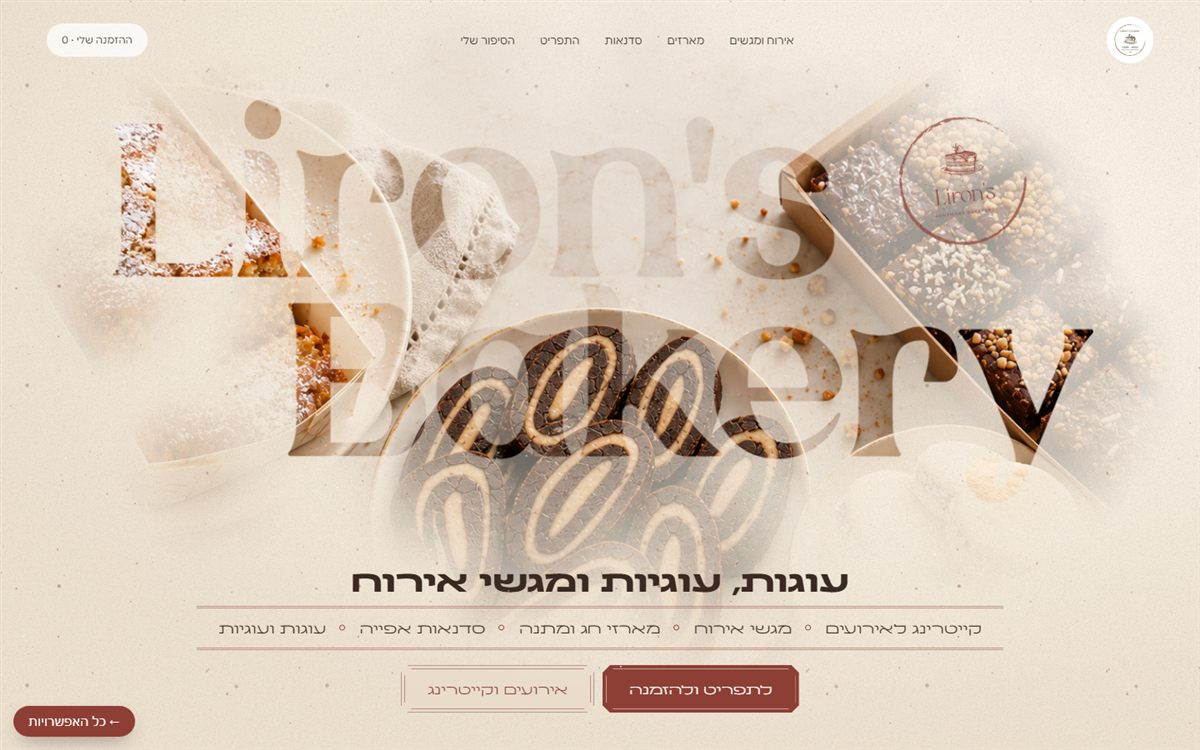
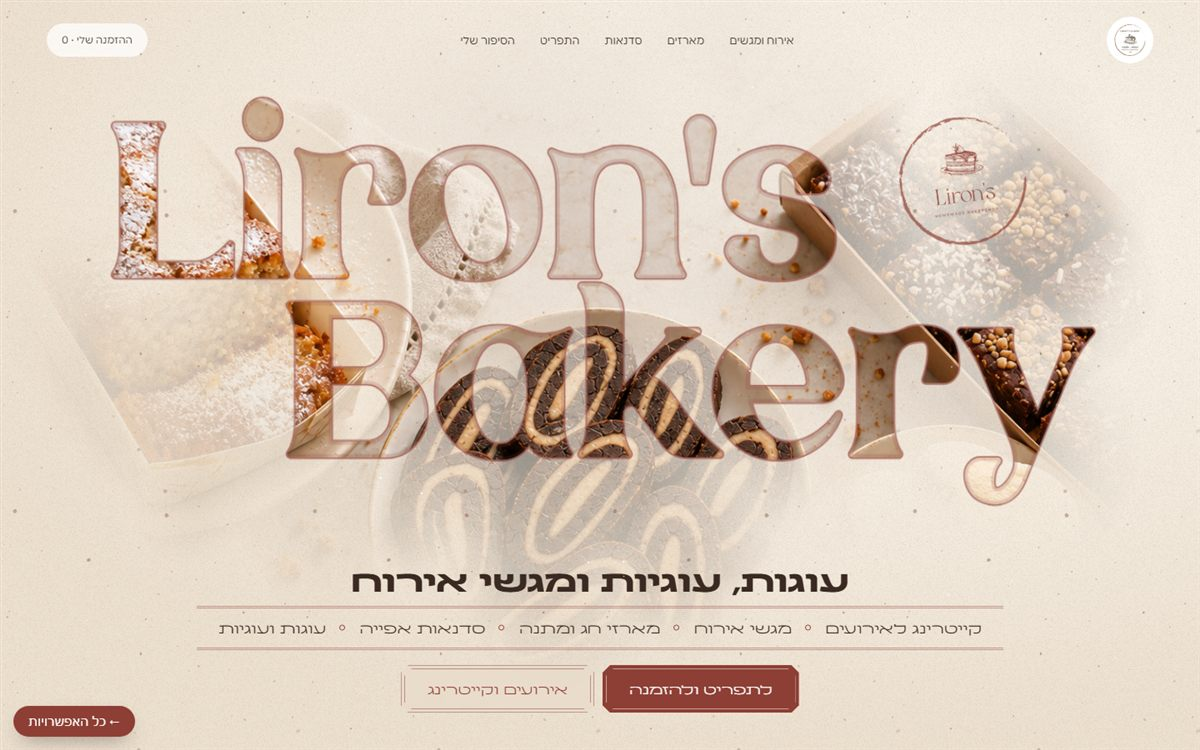
לפי המשוב של לירון: שם בולט יותר, בלי כרטיסי שירותים בגלילה

Changed region(s): [[0.0617, 0.1227, 0.9558, 0.7667], [0.5858, 0.6747, 0.6475, 0.7973], [0.2775, 0.4907, 0.3083, 0.5213]]

diff --git a/h3.html b/h3.html
@@ -63,11 +63,12 @@ a{color:inherit;text-decoration:none}
 .mini{font-size:12.5px;letter-spacing:.14em;text-transform:uppercase;color:var(--muted);line-height:1.7}
 
 /* ---------- הפתיחה ---------- */
-.x3{position:relative;height:470vh;max-width:1440px;margin:0 auto}
+.x3{position:relative;height:250vh;max-width:1440px;margin:0 auto}
 .pin{position:sticky;top:0;height:100vh;min-height:640px;overflow:hidden;background:#EFE6DA}
 .photo{position:absolute;inset:0;background:center/cover no-repeat;will-change:transform}
 .paper{position:absolute;inset:0;z-index:2;background:var(--paper),radial-gradient(80% 70% at 70% 30%,#FBF6EE 0%,#F3EADD 60%,#ECE0CF 100%);background-size:360px 360px,auto;
   -webkit-mask-size:100% 100%;mask-size:100% 100%;-webkit-mask-repeat:no-repeat;mask-repeat:no-repeat;will-change:transform,opacity}
+.outline{position:absolute;inset:0;z-index:2;width:100%;height:100%;pointer-events:none;will-change:transform,opacity}
 .cover{position:absolute;inset:0;z-index:3;background:var(--paper),radial-gradient(80% 70% at 70% 30%,#FBF6EE 0%,#F3EADD 60%,#ECE0CF 100%);background-size:360px 360px,auto;
   --w:-20%;-webkit-mask:linear-gradient(90deg,transparent var(--w),#000 calc(var(--w) + 10%));mask:linear-gradient(90deg,transparent var(--w),#000 calc(var(--w) + 10%));pointer-events:none}
 .sieve{position:absolute;inset:0;z-index:4;pointer-events:none;width:100%;height:100%}
@@ -156,6 +157,7 @@ a{color:inherit;text-decoration:none}
     <div class="photo" id="photo"></div>
     <div class="veil" id="veil"></div>
     <div class="paper" id="paper"></div>
+    <img class="outline" id="outline" alt="" aria-hidden="true">
     <div class="cover" id="cover"></div>
     <canvas class="sieve" id="sieve"></canvas>
     <div class="front" id="front">
@@ -167,12 +169,6 @@ a{color:inherit;text-decoration:none}
         <div class="ctas"><a class="btn p">לתפריט ולהזמנה</a><a class="btn s">אירועים וקייטרינג</a></div>
       </div>
     </div>
-    <div class="services" id="services">
-      <a class="svc big"><div class="en">events</div><h3>קייטרינג ומגשי אירוח</h3><span class="rule"></span><p>שולחן קינוחים ומגשי אירוח חלביים ופרווה לברית, לבר מצווה, לשבע ברכות ולקידוש. ספרו לי כמה אורחים מגיעים, ואני ארכיב לכם את השולחן.</p><span class="dl">לתכנון אירוע<i></i></span></a>
-      <a class="svc"><div class="en">gifts</div><h3>מארזי חג ומתנה</h3><span class="rule"></span><p>מארזים בעבודת יד לחגים, למשפחה ולעסקים, או מארז שמרכיבים בעצמכם.</p><span class="dl">למארזים<i></i></span></a>
-      <a class="svc"><div class="en">workshops</div><h3>סדנאות אפייה</h3><span class="rule"></span><p>בקבוצות קטנות, סדנה פרטית לקבוצה וקייטנת קיץ. כרגע ברשימת המתנה.</p><span class="dl">לרשימת ההמתנה<i></i></span></a>
-      <a class="svc"><div class="en">bakes</div><h3>עוגות ועוגיות</h3><span class="rule"></span><p>עוגות בחושות, עוגיות ומאפים לשבת ולבית. חלבי ופרווה, גם ללא גלוטן.</p><span class="dl">לתפריט<i></i></span></a>
-    </div>
     <canvas class="flour" id="flour"></canvas>
     <div class="hint mini" id="hint">scroll ↓</div>
   </div>
@@ -183,7 +179,7 @@ a{color:inherit;text-decoration:none}
 const still=matchMedia('(prefers-reduced-motion:reduce)').matches;
 const ease=t=>1-Math.pow(1-t,3),clamp=(v,a,b)=>Math.min(Math.max(v,a),b);
 const $=id=>document.getElementById(id);
-let thick=.02,cloudStrength=.6,family='Laviossa',flip=1,nameBox={x:0,y:0,w:0,h:0},maskURL=null;
+let thick=.032,cloudStrength=.4,family='Laviossa',flip=1,nameBox={x:0,y:0,w:0,h:0},maskURL=null;
 
 // נייר עבודת יד
 (function(){
@@ -224,6 +220,13 @@ function buildMask(){
   x.lineJoin='round';x.lineWidth=fs*thick;x.strokeStyle='#000';x.fillStyle='#000';
   lines.forEach((l,i)=>{x.fillText(l,pos[i][0],pos[i][1]);if(thick>0)x.strokeText(l,pos[i][0],pos[i][1])});
   nameBox={x:x1,y:top,w:bw,h:lh*2};
+  // קו מתאר: מציירים קו עבה בבורדו ומוחקים ממנו את האות עצמה, כך שנשארת טבעת דקה סביב כל אות
+  const oc=document.createElement('canvas');oc.width=W*dpr;oc.height=H*dpr;const ox=oc.getContext('2d');ox.scale(dpr,dpr);
+  ox.font=x.font;ox.lineJoin='round';ox.textBaseline='alphabetic';
+  ox.strokeStyle='rgba(142,63,53,.75)';ox.lineWidth=fs*thick+3;lines.forEach((l,i)=>ox.strokeText(l,pos[i][0],pos[i][1]));
+  ox.globalCompositeOperation='destination-out';ox.lineWidth=Math.max(fs*thick,.1);ox.fillStyle='#000';
+  lines.forEach((l,i)=>{ox.fillText(l,pos[i][0],pos[i][1]);if(thick>0)ox.strokeText(l,pos[i][0],pos[i][1])});
+  oc.toBlob(b=>{const o=$('outline');if(o.src.startsWith('blob:'))URL.revokeObjectURL(o.src);o.src=URL.createObjectURL(b)});
   // החותמת: בפינה הפנויה מימין ל-Liron's, מעל הסוף של Bakery
   const st=$('stamp'),sw=st.offsetWidth;
   if(mob){st.style.setProperty('--sx',(W-sw-16)+'px');st.style.setProperty('--sy',(top+lh*2+fs*.2)+'px')}
@@ -295,14 +298,13 @@ function frame(now){
   stepSieve(now);
 }
 function applyScroll(p){
-  const z=ease(clamp(p/.42,0,1));
-  $('paper').style.transform=`scale(${1+z*z*14})`;
-  const po=1-clamp((p-.2)/.2,0,1);$('paper').style.opacity=po;$('paper').style.visibility=po<=0?'hidden':'visible';
-  $('front').style.opacity=1-clamp(p/.1,0,1);
+  // בלי כרטיסים: הנייר נפתח לאורך כל הגלילה, והתמונה נשארת מלאה בסוף
+  const z=ease(clamp(p/.85,0,1));
+  $('paper').style.transform=`scale(${1+z*z*14})`;$('outline').style.transform=$('paper').style.transform;
+  const po=1-clamp((p-.35)/.4,0,1);$('outline').style.opacity=po;$('paper').style.opacity=po;$('paper').style.visibility=po<=0?'hidden':'visible';
+  $('front').style.opacity=1-clamp(p/.15,0,1);
   $('hint').style.opacity=1-clamp(p/.06,0,1);
   $('photo').style.transform=`scale(${(1.12-z*.1)*flip},${1.12-z*.1})`;
-  $('veil').style.opacity=clamp((p-.4)/.15,0,1);
-  cards.forEach((c,i)=>{const k=ease(clamp((p-(.46+i*.1))/.12,0,1));c.style.opacity=k;c.style.transform=`translateY(${(1-k)*70}px) scale(${.96+k*.04})`;c.style.filter=k<1?`blur(${(1-k)*6}px)`:'none';c.classList.toggle('on',k>.5)});
 }
 function stepSieve(now){
   if(!sweep&&!grains.length){if(stepSieve.dirty){sx.clearRect(0,0,SW,SH);stepSieve.dirty=false}return}

diff --git a/index.html b/index.html
@@ -50,12 +50,12 @@ h1{font-family:"Nostela",sans-serif;font-weight:700;font-size:clamp(32px,4.4vw,5
     <section class="opt main">
       <div class="shots two">
         <figure class="shot"><img src="img/shots/h3-open.jpg" alt="צילום מסך: השם כחלון למאפים, בתחילת העמוד" loading="lazy"><figcaption>בפתיחה</figcaption></figure>
-        <figure class="shot"><img src="img/shots/h3-services.jpg" alt="צילום מסך: ארבעת השירותים על תמונת השולחן, אחרי גלילה" loading="lazy"><figcaption>אחרי גלילה</figcaption></figure>
+        <figure class="shot"><img src="img/shots/h3-services.jpg" alt="צילום מסך: תמונת השולחן המלאה אחרי גלילה" loading="lazy"><figcaption>אחרי גלילה</figcaption></figure>
       </div>
       <div class="t">
         <span class="tag">ההמלצה שלנו</span>
         <h2>השם כחלון למאפים</h2>
-        <p>השם Liron's Bakery חתוך מנייר כמו חלונות, ודרכו רואים את שולחן המאפים. גוללים, הנייר נפתח, התמונה ממלאת את המסך, וארבעת השירותים עולים עליה אחד אחרי השני.</p>
+        <p>השם Liron's Bakery חתוך מנייר כמו חלונות, ודרכו רואים את שולחן המאפים. כל השירותים בשורה מתחת לשם. גוללים, והנייר נפתח עד שהתמונה ממלאת את המסך.</p>
         <a class="go" href="h3.html">לצפייה</a>
       </div>
     </section>
